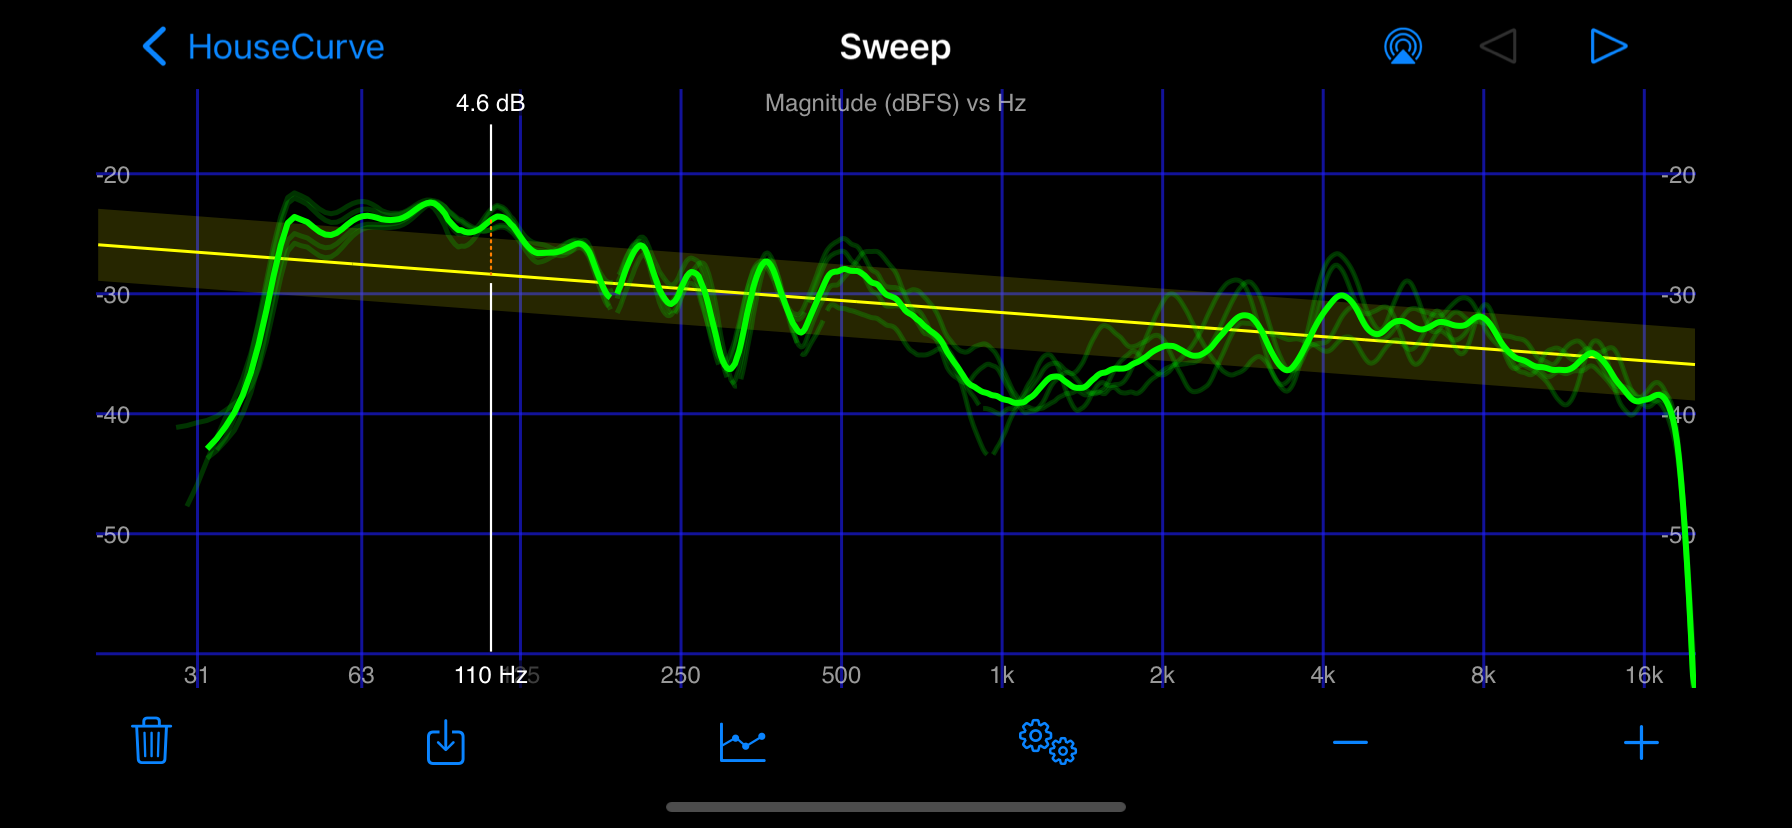
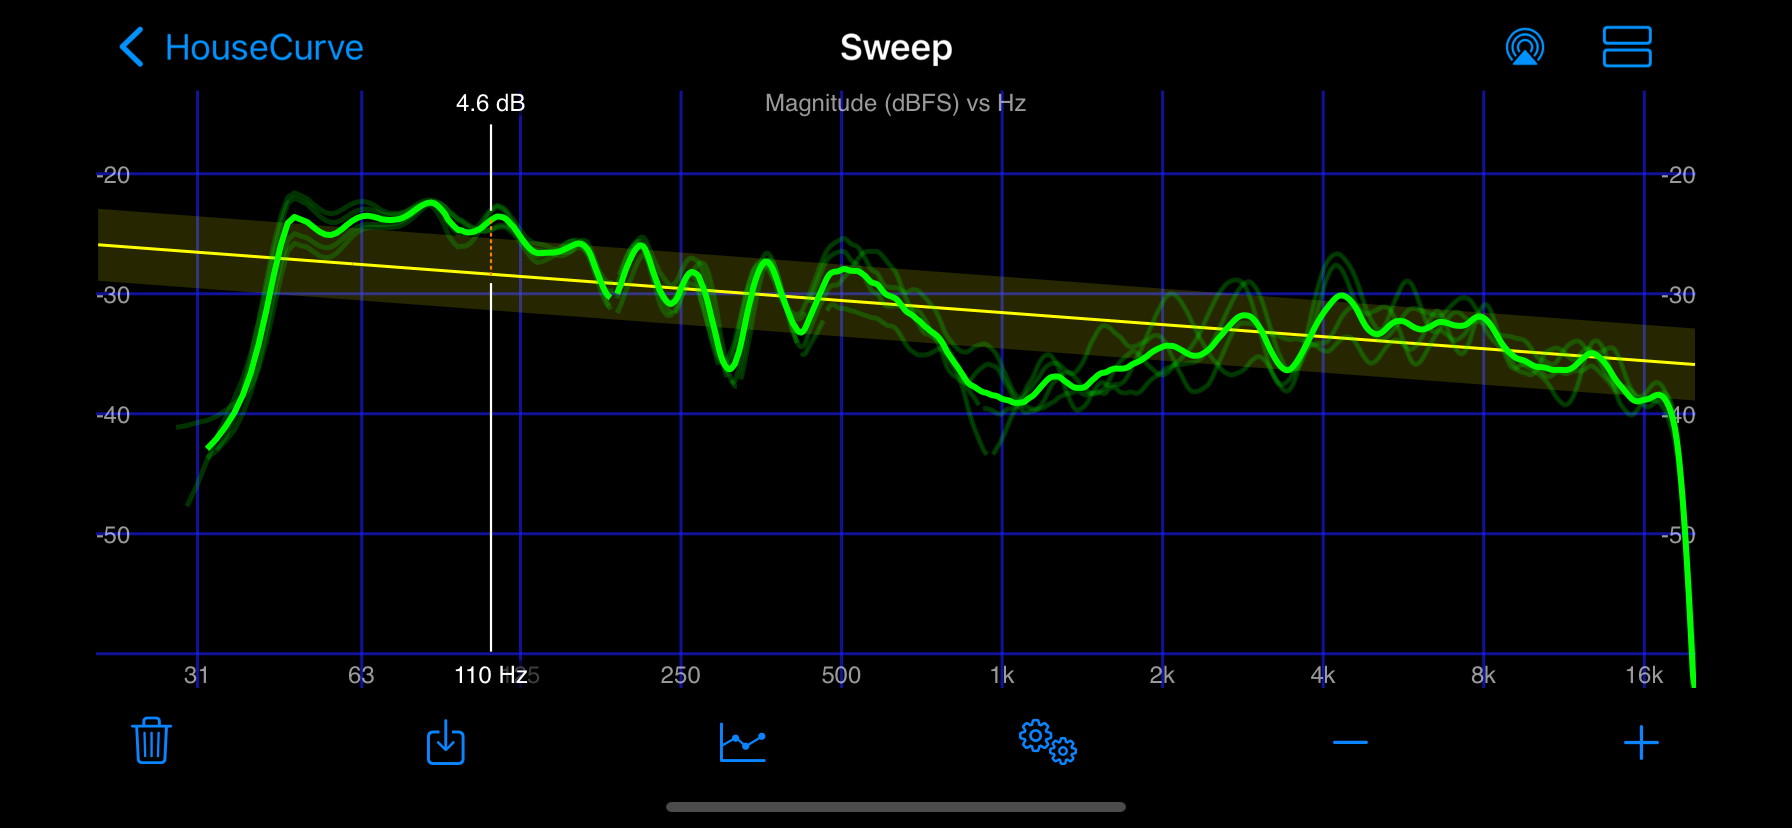
Minimum updates for plot type selection

Changed region(s): [[0.75, 0.0302, 0.9375, 0.0906], [0.0625, 0.0302, 0.2188, 0.0906], [0.4688, 0.0302, 0.5312, 0.0906]]

diff --git a/docs/manual/sweep_tool.md b/docs/manual/sweep_tool.md
@@ -22,8 +22,8 @@ The Sweep tool displays sweep measurements on top of the selected target curve a
 ## Airplay
 Tap <img src="/assets/img/airplay.png" alt="AirPlay" class="app-icon"> to select from available AirPlay and Bluetooth audio outputs.  The analog (wired) output is automatically selected when something is plugged into the iPhone/iPad headphone connector.  See [connecting to an audio system](../usage/connecting.md).
 
-## Page Control
-Tap <img src="/assets/img/pageleft.png" alt="Page Left" class="app-icon"> or <img src="/assets/img/pageright.png" alt="Page Right" class="app-icon"> to move between [magnitude, phase and group delay plots](../usage/plot_types.md) plots.
+## Plot Type
+Tap <img src="/assets/img/plottype.png" alt="Plot Type" class="app-icon"> to choose the [plot type](../usage/plot_types.md), ex: magnitude.
 
 ## Measure
 Tap <img src="/assets/img/measure.png" alt="Measure" class="app-icon"> to start [measurement process](../usage/measurement_process.md).  Tap again to to stop.  This button is disabled when not connected to an audio system.

diff --git a/docs/HELP.md b/docs/HELP.md
@@ -24,7 +24,7 @@ title: Quick Start
 1. Average measurements by tapping <img src="/assets/img/measure.png" alt="Measure" class="app-icon"> again (with [Tuning Bundle](DOWNLOAD.md#tuning-bundle) in-app purchase).
 1. Remove the most recent measurement by tapping <img src="/assets/img/undo.png" alt="Undo" class="app-icon">
 1. Clear all measurements by tapping <img src="/assets/img/reset.png" alt="Reset" class="app-icon">
-1. Switch between plot types tapping <img src="/assets/img/pageleft.png" alt="Page Left" class="app-icon"> or <img src="/assets/img/pageright.png" alt="Page Right" class="app-icon">
+1. Switch between plot types by tapping <img src="/assets/img/plottype.png" alt="Plot Type" class="app-icon">
 1. Tap plot to show cursor, move with single finger, tap again to hide.
 1. Pinch plot to zoom.  Use two fingers to scroll plot left/right.
 

diff --git a/docs/usage/plot_types.md b/docs/usage/plot_types.md
@@ -8,7 +8,7 @@ nav_order: 5
 
 
 # Plot Types
-HouseCurve displays successful measurements using magnitude, phase and group delay plots.  Switch between plots by tapping <img src="/assets/img/pageleft.png" alt="Page Left" class="app-icon"> or <img src="/assets/img/pageright.png" alt="Page Right" class="app-icon">.
+HouseCurve displays successful measurements using magnitude, phase and group delay plots.  Switch between plot types by tapping <img src="/assets/img/plottype.png" alt="Plot Type" class="app-icon">
 
 ## Magnitude Plot
 The magnitude plot is the most important plot for tuning.  The overall level of the magnitude measurement is the “volume” or output power of the audio system.  The level differences between frequencies are what we want to change when [applying equalization](../tuning/equalization.md).
